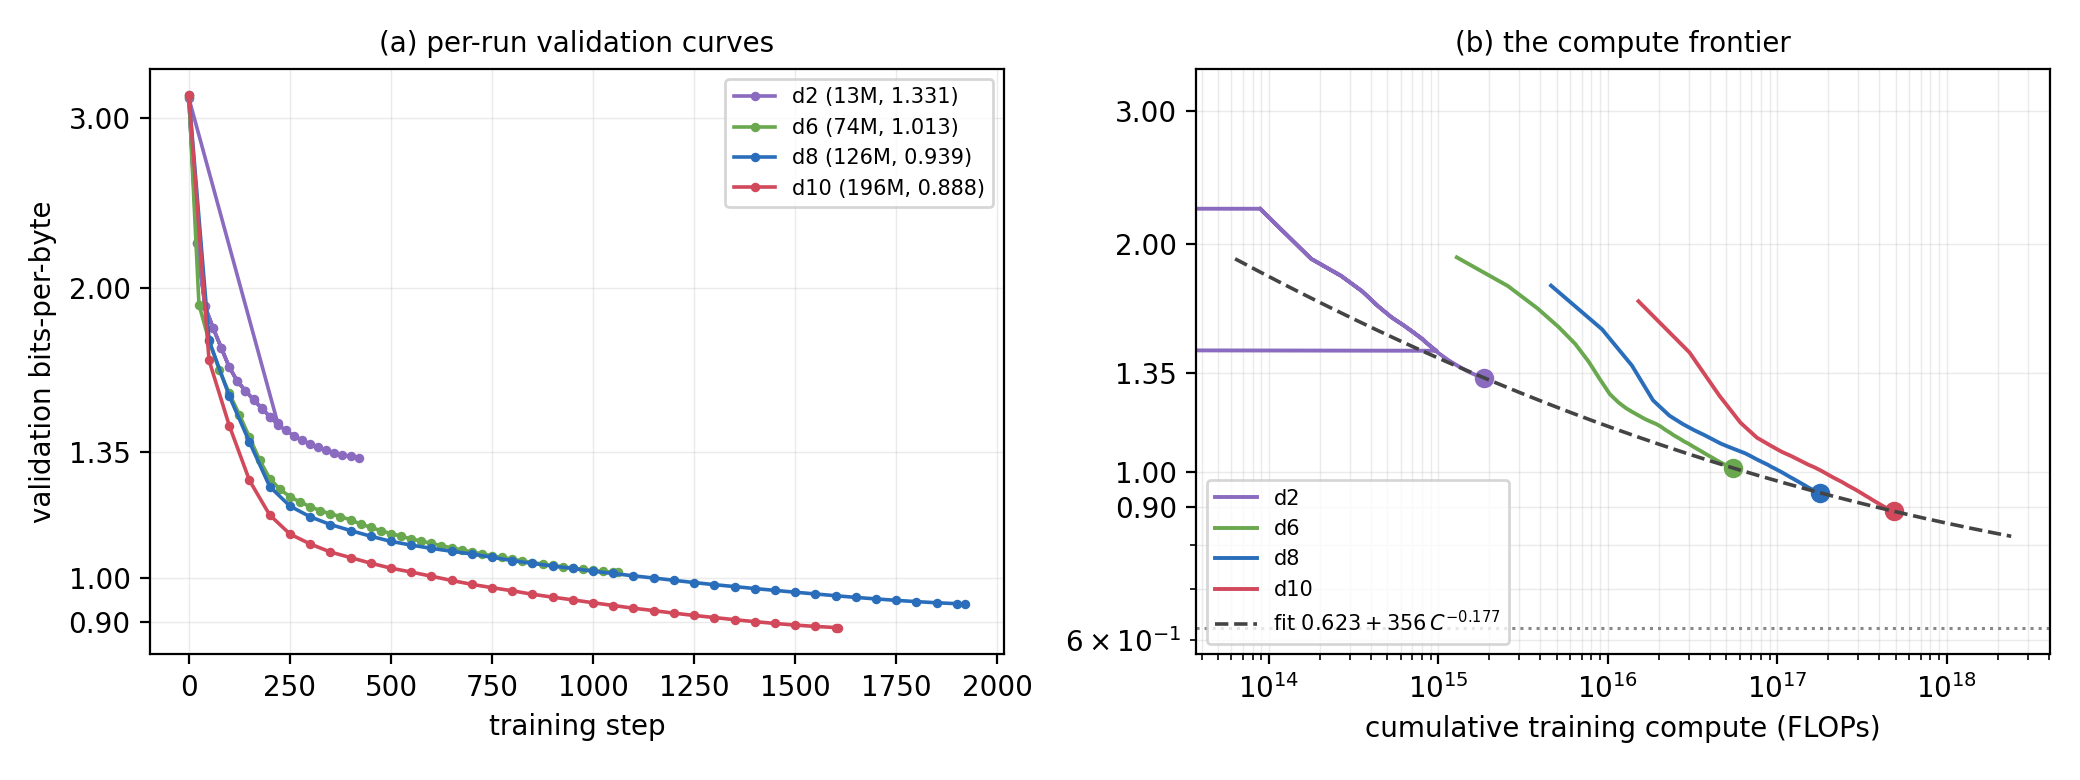
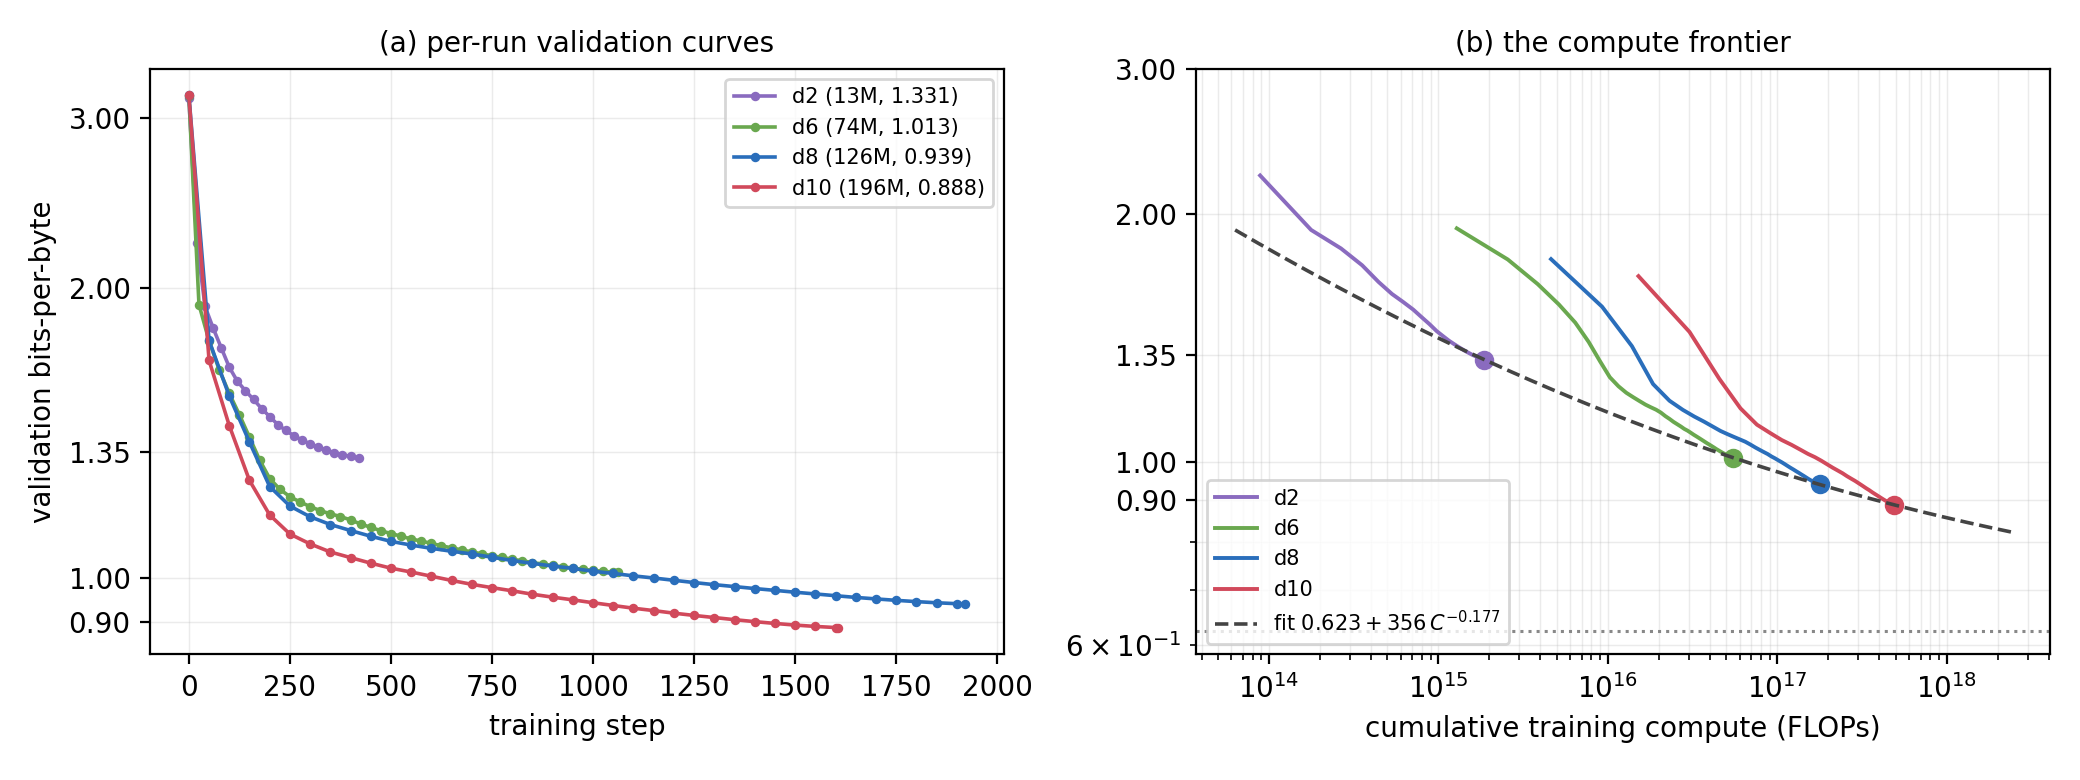
fix: Keep only the last run from the depth-2 log

diff --git a/analysis/fit_scaling_law.py b/analysis/fit_scaling_law.py
@@ -18,6 +18,10 @@ with open(_paths.D2_LOG,
           encoding="utf-8") as fh:
     for line in fh:
         r = json.loads(line)
+        if r.get("event") == "run_start":
+            # the log is appended to, and an aborted first attempt sits before the real run
+            d2["val"], d2["flops"] = [], {}
+            continue
         if "val/bpb" in r:
             d2["val"].append((r["step"], r["val/bpb"]))
             d2["flops"][r["step"]] = r["total_training_flops"]
